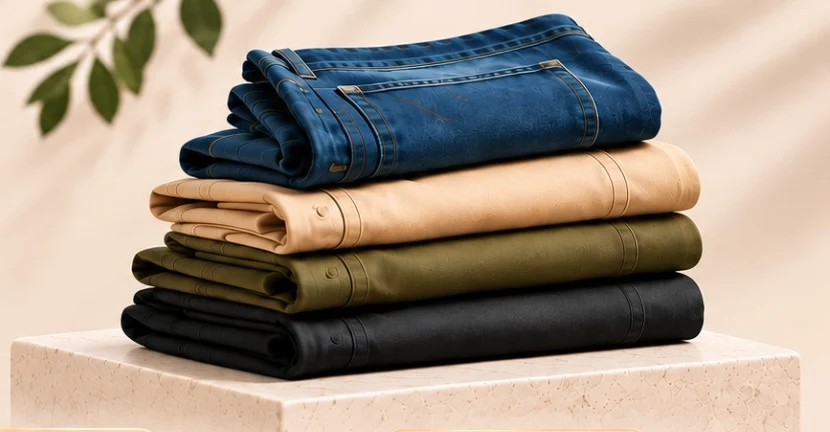
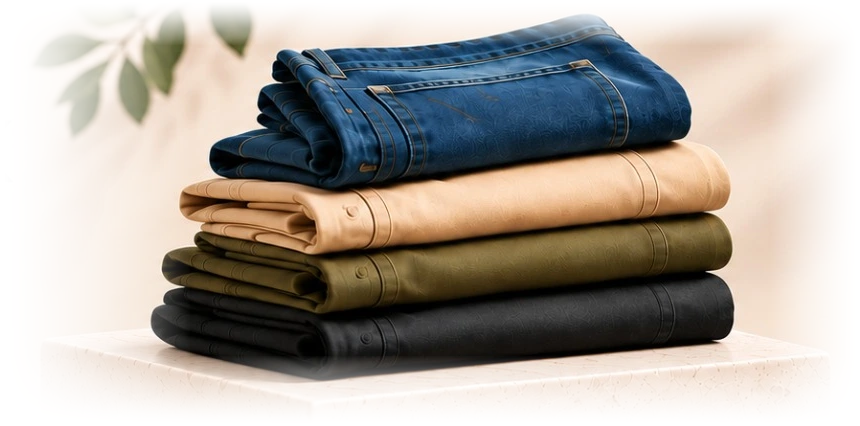
fix: pantalones del pack sobre su pedestal como la referencia; sin frase en la bienvenida
- Imagen del pack con pedestal y bordes fundidos con el fondo; las
  tarjetas quedan delante del pedestal.
- Bienvenida: se quita 'Hecho en Lima · Desde 1988'.

Claude-Session: https://claude.ai/code/session_01L7XawWyyE8YjHDxizCScUq

diff --git a/diseno.css b/diseno.css
@@ -386,3 +386,22 @@ svg { fill: none; stroke: currentColor; stroke-width: 1.6; stroke-linecap: round
   .pack .btn { font-size: 9px; letter-spacing: 0; }
   .pack .btn svg { width: 12px; margin-left: 4px; }
 }
+
+/* Pack 12/11/2026: pantalones sobre su pedestal, del mismo tono que el fondo (como la imagen de referencia).
+   La imagen trae los bordes ya fundidos; va arriba a la derecha y las tarjetas quedan encima del pedestal. */
+.packs { position: relative; background: radial-gradient(ellipse 60% 70% at 72% 18%, #f3dccb, transparent 70%), #f8e8db; }
+.packs-cab { position: relative; z-index: 1; display: block; min-height: calc(min(56vw, 900px) * 426 / 860 * .96); }
+.packs-texto { max-width: 46%; }
+.packs-pila, .packs-pila:is(img) { position: absolute; z-index: 0; top: 0; right: 0; width: min(56vw, 900px); max-width: none; height: auto; aspect-ratio: 860 / 426;
+  margin: 0; border-radius: 0; -webkit-mask-image: none; mask-image: none; object-fit: contain; pointer-events: none; }
+.packs-lista { position: relative; z-index: 1; }
+@media (max-width: 899px) {
+  .packs { padding-top: 22px; }
+  .packs-texto { max-width: 52%; }
+  .packs-pila { width: 60vw; top: 6px; margin: 0; }
+  .packs-cab { min-height: calc(60vw * 426 / 860 * .96); margin-bottom: 18px; }
+}
+@media (min-width: 900px) {
+  .packs-texto { max-width: 52%; }
+  .packs h2 { font-size: clamp(40px, 4.8vw, 76px); white-space: nowrap; }
+}

diff --git a/index.html b/index.html
@@ -23,7 +23,6 @@
     <p class="splash-hola">Bienvenido a</p>
     <p class="splash-marca"><span style="--i:0">G</span><span style="--i:1">A</span><span style="--i:2">L</span><span style="--i:3">M</span><span style="--i:4">O</span><span style="--i:5">R</span></p>
     <p class="splash-textiles"><i></i>Textiles<i></i></p>
-    <p class="splash-desde">Hecho en Lima · Desde 1988</p>
     <p class="splash-marcas"><b>ZOROZ 77</b><i></i><em>Galmor</em></p>
   </div>
 
@@ -85,7 +84,7 @@
           <p class="packs-lema">Lleva más, paga menos.</p>
           <p class="packs-sub">Combina modelos, colores y tallas. Tu descuento por unidad <mark>aumenta</mark> según la cantidad que elijas.</p>
         </div>
-        <img class="packs-pila" src="marca/pack-pila.webp" width="830" height="432" alt="Pantalones doblados: jean, beige, verde y negro" loading="lazy">
+        <img class="packs-pila" src="marca/pack-pila.webp" width="860" height="426" alt="Pantalones doblados: jean, beige, verde y negro" loading="lazy">
       </div>
       <div class="packs-lista" id="packs-lista"></div>
     </section>
